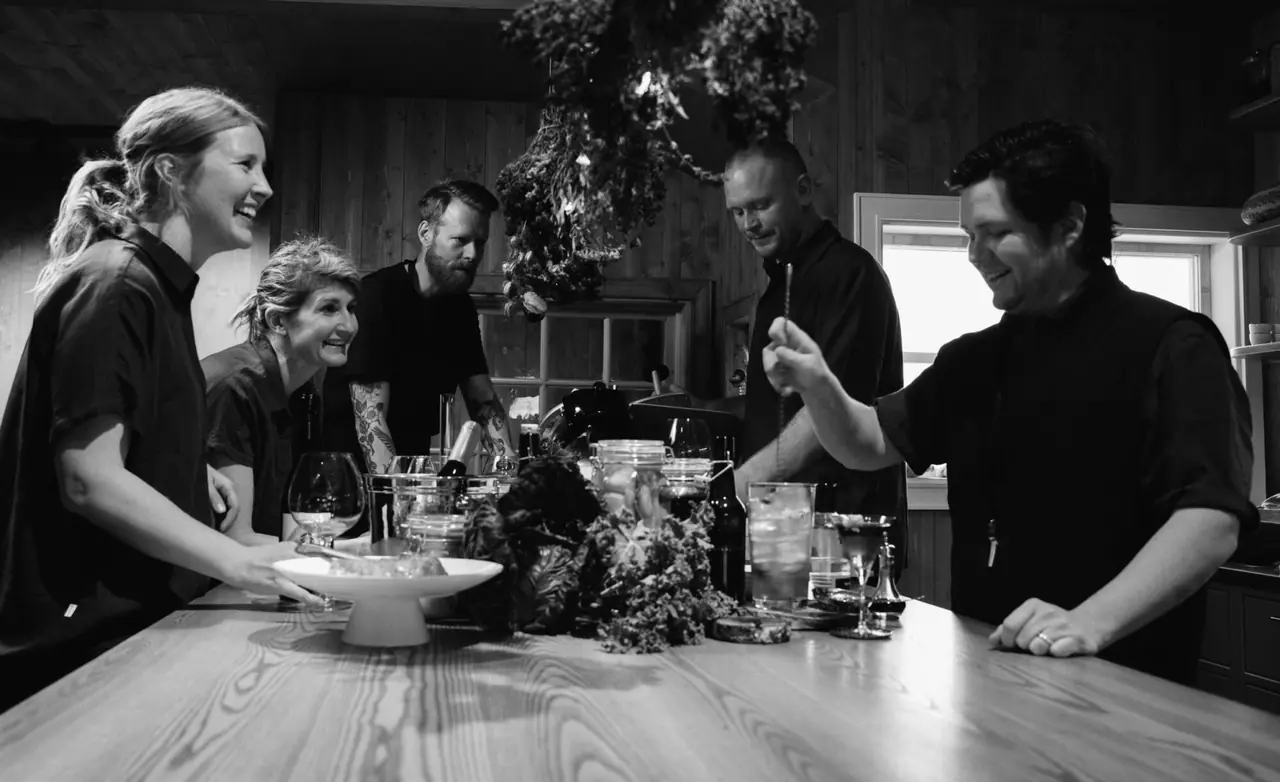
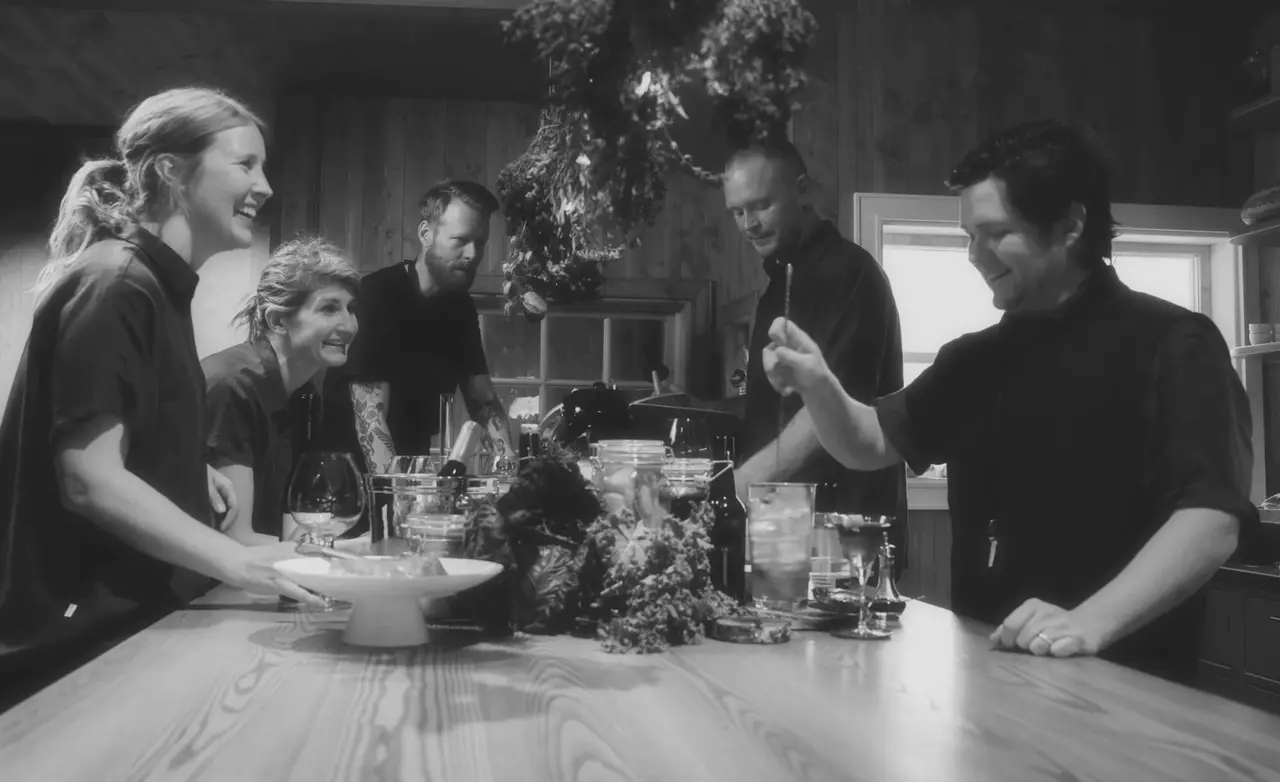
Mobilen: logga, BOKA, språkval och meny skiftar ton i samma takt; språkval och pil kommer samtidigt; mjukare lagbild
Claude-Session: https://claude.ai/code/session_01PvJLN3KGU2VwY8XGgYZP88

diff --git a/assets/hf.css b/assets/hf.css
@@ -34,9 +34,9 @@ body {
   -webkit-font-smoothing: antialiased; -moz-osx-font-smoothing: grayscale;
 }
 img { max-width: 100%; display: block; }
-a { color: inherit; text-decoration: none; transition: color .2s linear; }
+a { color: inherit; text-decoration: none; }
 /* Inget rött vid hovring: länkar tonas lätt i stället */
-a { transition: opacity .3s ease; }
+a { transition: color .2s linear, opacity .3s ease; }
 @media (hover: hover) { a:hover { opacity: .6; } .logga:hover, .huvud a:hover, .meny a:hover, a.knapp:hover { opacity: 1; } }
 :focus-visible { outline: 1px solid currentColor; outline-offset: 4px; }
 /* Ingen ruta och ingen grå markering vid tryck eller klick, varken på mobil eller dator; rutan visas bara för den som använder tangentbord */
@@ -47,7 +47,7 @@ a, button, summary, label { -webkit-tap-highlight-color: transparent; }
 .sr { position: absolute; width: 1px; height: 1px; overflow: hidden; clip: rect(0 0 0 0); white-space: nowrap; }
 
 /* ---------- Huvud: logga, BOKA och meny ---------- */
-.logga { position: absolute; top: 45px; left: 55px; z-index: 20; width: 126px; color: #41413f; transition: color 1s ease, filter 1s ease; }
+.logga { position: absolute; top: 45px; left: 55px; z-index: 20; width: 126px; color: var(--text); transition: color 1s ease, filter 1s ease; }
 /* Loggan ritas i textfärg (via en mask), så att den får exakt samma ton som BOKA och menyn */
 .logga::before { content: ""; position: absolute; inset: 0; background: currentColor;
   -webkit-mask: url(/assets/img/hallfjallet-logo.png) 0 0 / 100% 100% no-repeat; mask: url(/assets/img/hallfjallet-logo.png) 0 0 / 100% 100% no-repeat; }
@@ -59,9 +59,9 @@ a, button, summary, label { -webkit-tap-highlight-color: transparent; }
 }
 .huvud .boka { font-family: var(--rubrik); font-size: 16px; letter-spacing: .015em; text-transform: uppercase; color: inherit; }
 /* BOKA och språkvalet byter till motsatt ton när man pekar eller trycker: mörkt blir ljusgrått, ljusgrått blir mörkt */
-@media (hover: hover) { .huvud .boka:hover, .huvud .sprakval:hover { color: var(--gra); } .ljus-huvud .huvud .boka:hover, .ljus-huvud .huvud .sprakval:hover { color: var(--text); } }
+@media (hover: hover) { .huvud .boka:hover, .huvud .sprakval:hover { color: var(--gra); transition-duration: .3s; } .ljus-huvud .huvud .boka:hover, .ljus-huvud .huvud .sprakval:hover { color: var(--text); } }
 .huvud .boka:active, .huvud .sprakval:active { color: var(--gra); } .ljus-huvud .huvud .boka:active, .ljus-huvud .huvud .sprakval:active { color: var(--text); }
-.huvud .boka, .huvud .sprakval { transition: color .35s ease; }
+.huvud .boka, .huvud .sprakval { transition: color 1s ease; }  /* samma takt som loggan och menyknappen när tonen skiftar */
 /* Språkval bredvid BOKA: bara det andra språket, lite mindre och lättare */
 .huvud .sprakval { font-family: var(--rubrik); font-size: 16px; letter-spacing: .015em; color: inherit; }
 
@@ -112,12 +112,12 @@ body.meny-oppen { overflow: hidden; }
 .hero-text.borta .hero-pil { pointer-events: none; }
 .hero-rubrik { opacity: 0; filter: blur(14px); letter-spacing: .32em; transform: translateY(-14px) scale(1.04);
   animation: hero-in 2.3s cubic-bezier(.16, .7, .2, 1) .2s forwards; }
-.hero-pil { opacity: 0; animation: hero-pil-in 1.6s ease 2.2s forwards; }
+.hero-pil { opacity: 0; animation: hero-pil-in 1.4s ease 1.6s forwards; }
 /* Rubriken sjunker in: ur oskärpa, ner på plats medan bokstäverna drar ihop sig */
 @keyframes hero-in { 40% { opacity: .55; } to { opacity: 1; filter: blur(0); letter-spacing: .16em; transform: none; } }
 @keyframes hero-pil-in { to { opacity: 1; } }
 /* Svenska · English under rubriken på startsidan; det språk man är på är understruket */
-.sprak-under { margin: 22px 0 0; font-family: var(--rubrik); font-size: 13px; letter-spacing: .16em; text-transform: uppercase; pointer-events: auto; opacity: 0; animation: hero-pil-in 1.6s ease 1.7s forwards; }
+.sprak-under { margin: 22px 0 0; font-family: var(--rubrik); font-size: 13px; letter-spacing: .16em; text-transform: uppercase; pointer-events: auto; opacity: 0; animation: hero-pil-in 1.4s ease 1.6s forwards; }  /* språkvalet och pilen kommer samtidigt, när rubriken landar */
 .sprak-under a { color: inherit; transition: opacity .3s ease; }
 @media (hover: hover) { .sprak-under a:hover { opacity: .65; } }
 .sprak-under b { font-weight: normal; border-bottom: 1px solid currentColor; padding-bottom: 2px; }

diff --git a/sv/index.html b/sv/index.html
@@ -1,5 +1,5 @@
 <!DOCTYPE html>
-<html lang="sv">
+<html lang="sv" class="ljus-huvud ljus-logga">
 <head>
 <meta charset="UTF-8">
 <meta name="viewport" content="width=device-width, initial-scale=1">
@@ -26,7 +26,7 @@
 <link rel="preload" href="/assets/fonts/OregonLDO.woff" as="font" type="font/woff" crossorigin>
 <link rel="preload" href="/assets/fonts/SuisseNeue-Regular-WebS.woff" as="font" type="font/woff" crossorigin>
 <link rel="preload" as="image" href="/assets/img/hero-frusen-sjo-1280.webp" imagesrcset="/assets/img/hero-frusen-sjo-640.webp 640w, /assets/img/hero-frusen-sjo-1280.webp 1280w, /assets/img/hero-frusen-sjo-1920.webp 1920w" imagesizes="100vw">
-<link rel="stylesheet" href="/assets/hf.css?v=10">
+<link rel="stylesheet" href="/assets/hf.css?v=11">
 <script type="application/ld+json">{"@context": "https://schema.org", "@graph": [{"@type": "Hotel", "name": "Hållfjället", "url": "https://www.hallfjallet.se/", "description": "Small mountain hotel and restaurant in roadless country above Ottsjö in the southern Åre mountains, Sweden.", "email": "info@hallfjallet.se", "telephone": "+46647690466", "image": "https://www.hallfjallet.se/assets/img/og.jpg", "sameAs": ["https://instagram.com/hallfjallsgarden"], "address": {"@type": "PostalAddress", "addressLocality": "Ottsjö", "addressRegion": "Jämtland", "addressCountry": "SE"}, "geo": {"@type": "GeoCoordinates", "latitude": 63.25414, "longitude": 12.96636}}, {"@type": "Restaurant", "name": "Hållfjället", "url": "https://www.hallfjallet.se/", "servesCuisine": "Seasonal Nordic", "telephone": "+46647690466", "geo": {"@type": "GeoCoordinates", "latitude": 63.25414, "longitude": 12.96636}, "address": {"@type": "PostalAddress", "addressLocality": "Ottsjö", "addressCountry": "SE"}}]}</script>
 </head>
 <body>
@@ -187,6 +187,6 @@ Ottsjö ligger 20 minuter med bil från Undersåkers tågstation och 30 minuter 
   <p class="copy">Copyright © 2026<span class="prick" aria-hidden="true">·</span>Hållfjällsgården AB<span class="prick" aria-hidden="true">·</span>All Rights Reserved.</p>
 </footer>
 <button class="till-toppen" type="button"><span class="sr">Till toppen</span><svg viewBox="0 0 14 14" aria-hidden="true"><path d="M2 9.5l5-5 5 5" fill="none" stroke="currentColor" stroke-width="1.4"/></svg></button>
-<script src="/assets/hf.js?v=10" defer></script>
+<script src="/assets/hf.js?v=11" defer></script>
 </body>
 </html>

diff --git a/en/index.html b/en/index.html
@@ -1,5 +1,5 @@
 <!DOCTYPE html>
-<html lang="en">
+<html lang="en" class="ljus-huvud ljus-logga">
 <head>
 <meta charset="UTF-8">
 <meta name="viewport" content="width=device-width, initial-scale=1">
@@ -26,7 +26,7 @@
 <link rel="preload" href="/assets/fonts/OregonLDO.woff" as="font" type="font/woff" crossorigin>
 <link rel="preload" href="/assets/fonts/SuisseNeue-Regular-WebS.woff" as="font" type="font/woff" crossorigin>
 <link rel="preload" as="image" href="/assets/img/hero-frusen-sjo-1280.webp" imagesrcset="/assets/img/hero-frusen-sjo-640.webp 640w, /assets/img/hero-frusen-sjo-1280.webp 1280w, /assets/img/hero-frusen-sjo-1920.webp 1920w" imagesizes="100vw">
-<link rel="stylesheet" href="/assets/hf.css?v=10">
+<link rel="stylesheet" href="/assets/hf.css?v=11">
 <script type="application/ld+json">{"@context": "https://schema.org", "@graph": [{"@type": "Hotel", "name": "Hållfjället", "url": "https://www.hallfjallet.se/", "description": "Small mountain hotel and restaurant in roadless country above Ottsjö in the southern Åre mountains, Sweden.", "email": "info@hallfjallet.se", "telephone": "+46647690466", "image": "https://www.hallfjallet.se/assets/img/og.jpg", "sameAs": ["https://instagram.com/hallfjallsgarden"], "address": {"@type": "PostalAddress", "addressLocality": "Ottsjö", "addressRegion": "Jämtland", "addressCountry": "SE"}, "geo": {"@type": "GeoCoordinates", "latitude": 63.25414, "longitude": 12.96636}}, {"@type": "Restaurant", "name": "Hållfjället", "url": "https://www.hallfjallet.se/", "servesCuisine": "Seasonal Nordic", "telephone": "+46647690466", "geo": {"@type": "GeoCoordinates", "latitude": 63.25414, "longitude": 12.96636}, "address": {"@type": "PostalAddress", "addressLocality": "Ottsjö", "addressCountry": "SE"}}]}</script>
 </head>
 <body>
@@ -188,6 +188,6 @@ Contact us and we’ll gladly tell you more.</p>
   <p class="copy">Copyright © 2026<span class="prick" aria-hidden="true">·</span>Hållfjällsgården AB<span class="prick" aria-hidden="true">·</span>All Rights Reserved.</p>
 </footer>
 <button class="till-toppen" type="button"><span class="sr">Back to top</span><svg viewBox="0 0 14 14" aria-hidden="true"><path d="M2 9.5l5-5 5 5" fill="none" stroke="currentColor" stroke-width="1.4"/></svg></button>
-<script src="/assets/hf.js?v=10" defer></script>
+<script src="/assets/hf.js?v=11" defer></script>
 </body>
 </html>

diff --git a/sv/jobba-hos-oss/index.html b/sv/jobba-hos-oss/index.html
@@ -1,5 +1,5 @@
 <!DOCTYPE html>
-<html lang="sv">
+<html lang="sv" class="ljus-huvud ljus-logga">
 <head>
 <meta charset="UTF-8">
 <meta name="viewport" content="width=device-width, initial-scale=1">
@@ -25,7 +25,7 @@
 <link rel="apple-touch-icon" sizes="180x180" href="/apple-touch-icon.png?v=2">
 <link rel="preload" href="/assets/fonts/OregonLDO.woff" as="font" type="font/woff" crossorigin>
 <link rel="preload" href="/assets/fonts/SuisseNeue-Regular-WebS.woff" as="font" type="font/woff" crossorigin>
-<link rel="stylesheet" href="/assets/hf.css?v=10">
+<link rel="stylesheet" href="/assets/hf.css?v=11">
 </head>
 <body class="sida-jobb">
 <a class="skip" href="#innehall">Hoppa till innehållet</a>
@@ -125,6 +125,6 @@
   <p class="copy">Copyright © 2026<span class="prick" aria-hidden="true">·</span>Hållfjällsgården AB<span class="prick" aria-hidden="true">·</span>All Rights Reserved.</p>
 </footer>
 <button class="till-toppen" type="button"><span class="sr">Till toppen</span><svg viewBox="0 0 14 14" aria-hidden="true"><path d="M2 9.5l5-5 5 5" fill="none" stroke="currentColor" stroke-width="1.4"/></svg></button>
-<script src="/assets/hf.js?v=10" defer></script>
+<script src="/assets/hf.js?v=11" defer></script>
 </body>
 </html>

diff --git a/en/work-with-us/index.html b/en/work-with-us/index.html
@@ -1,5 +1,5 @@
 <!DOCTYPE html>
-<html lang="en">
+<html lang="en" class="ljus-huvud ljus-logga">
 <head>
 <meta charset="UTF-8">
 <meta name="viewport" content="width=device-width, initial-scale=1">
@@ -25,7 +25,7 @@
 <link rel="apple-touch-icon" sizes="180x180" href="/apple-touch-icon.png?v=2">
 <link rel="preload" href="/assets/fonts/OregonLDO.woff" as="font" type="font/woff" crossorigin>
 <link rel="preload" href="/assets/fonts/SuisseNeue-Regular-WebS.woff" as="font" type="font/woff" crossorigin>
-<link rel="stylesheet" href="/assets/hf.css?v=10">
+<link rel="stylesheet" href="/assets/hf.css?v=11">
 </head>
 <body class="sida-jobb">
 <a class="skip" href="#innehall">Skip to content</a>
@@ -127,6 +127,6 @@
   <p class="copy">Copyright © 2026<span class="prick" aria-hidden="true">·</span>Hållfjällsgården AB<span class="prick" aria-hidden="true">·</span>All Rights Reserved.</p>
 </footer>
 <button class="till-toppen" type="button"><span class="sr">Back to top</span><svg viewBox="0 0 14 14" aria-hidden="true"><path d="M2 9.5l5-5 5 5" fill="none" stroke="currentColor" stroke-width="1.4"/></svg></button>
-<script src="/assets/hf.js?v=10" defer></script>
+<script src="/assets/hf.js?v=11" defer></script>
 </body>
 </html>

diff --git a/sv/nu-pa-hallfjallet/index.html b/sv/nu-pa-hallfjallet/index.html
@@ -25,7 +25,7 @@
 <link rel="apple-touch-icon" sizes="180x180" href="/apple-touch-icon.png?v=2">
 <link rel="preload" href="/assets/fonts/OregonLDO.woff" as="font" type="font/woff" crossorigin>
 <link rel="preload" href="/assets/fonts/SuisseNeue-Regular-WebS.woff" as="font" type="font/woff" crossorigin>
-<link rel="stylesheet" href="/assets/hf.css?v=10">
+<link rel="stylesheet" href="/assets/hf.css?v=11">
 </head>
 <body class="sida-dagar">
 <a class="skip" href="#innehall">Hoppa till innehållet</a>
@@ -169,6 +169,6 @@ En eld görs upp, kaffepannan åker fram och så småningom vankas något varmt 
   <p class="copy">Copyright © 2026<span class="prick" aria-hidden="true">·</span>Hållfjällsgården AB<span class="prick" aria-hidden="true">·</span>All Rights Reserved.</p>
 </footer>
 <button class="till-toppen" type="button"><span class="sr">Till toppen</span><svg viewBox="0 0 14 14" aria-hidden="true"><path d="M2 9.5l5-5 5 5" fill="none" stroke="currentColor" stroke-width="1.4"/></svg></button>
-<script src="/assets/hf.js?v=10" defer></script>
+<script src="/assets/hf.js?v=11" defer></script>
 </body>
 </html>

diff --git a/en/whats-on/index.html b/en/whats-on/index.html
@@ -25,7 +25,7 @@
 <link rel="apple-touch-icon" sizes="180x180" href="/apple-touch-icon.png?v=2">
 <link rel="preload" href="/assets/fonts/OregonLDO.woff" as="font" type="font/woff" crossorigin>
 <link rel="preload" href="/assets/fonts/SuisseNeue-Regular-WebS.woff" as="font" type="font/woff" crossorigin>
-<link rel="stylesheet" href="/assets/hf.css?v=10">
+<link rel="stylesheet" href="/assets/hf.css?v=11">
 </head>
 <body class="sida-dagar">
 <a class="skip" href="#innehall">Skip to content</a>
@@ -166,6 +166,6 @@
   <p class="copy">Copyright © 2026<span class="prick" aria-hidden="true">·</span>Hållfjällsgården AB<span class="prick" aria-hidden="true">·</span>All Rights Reserved.</p>
 </footer>
 <button class="till-toppen" type="button"><span class="sr">Back to top</span><svg viewBox="0 0 14 14" aria-hidden="true"><path d="M2 9.5l5-5 5 5" fill="none" stroke="currentColor" stroke-width="1.4"/></svg></button>
-<script src="/assets/hf.js?v=10" defer></script>
+<script src="/assets/hf.js?v=11" defer></script>
 </body>
 </html>

diff --git a/assets/hf.js b/assets/hf.js
@@ -63,7 +63,9 @@
       }
     });
     rot.classList.toggle('ljus-huvud', ljus);
-    rot.classList.toggle('ljus-logga', !!aktuellLjus()); // loggan följer bildspelet, i samma färg som menyn
+    // Loggan följer bildspelet; på sidor utan bildspel följer den bilden högst upp. Samma ton som menyn.
+    var forsta = ytor[0], loggaLjus = bilder.length ? aktuellLjus() : !!forsta && forsta.getAttribute('data-ljus-' + (smal.matches ? 'm' : 'd')) === '1';
+    rot.classList.toggle('ljus-logga', loggaLjus);
     if (toppen) toppen.classList.toggle('synlig', window.scrollY > window.innerHeight);
   }
   var vantar = false;

diff --git a/404.html b/404.html
@@ -10,7 +10,7 @@
 <link rel="icon" type="image/png" sizes="16x16" href="/ikon-hf-16.png?v=2">
 <link rel="icon" type="image/png" sizes="192x192" href="/ikon-hf-192.png?v=2">
 <link rel="icon" type="image/x-icon" href="/favicon.ico?v=2">
-<link rel="stylesheet" href="/assets/hf.css?v=10">
+<link rel="stylesheet" href="/assets/hf.css?v=11">
 </head>
 <body class="sida-enkel">
 <main class="enkel">

diff --git a/index.html b/index.html
@@ -29,7 +29,7 @@
     } catch (e) {}
   })();
 </script>
-<link rel="stylesheet" href="/assets/hf.css?v=10">
+<link rel="stylesheet" href="/assets/hf.css?v=11">
 </head>
 <body class="sida-enkel">
 <main class="enkel">

diff --git a/CLAUDE.md b/CLAUDE.md
@@ -38,11 +38,11 @@ The home pages copy the structure of the WordPress site: one long page with a sl
 
 - **Section ids** — Swedish: `hitta-hem-i-det-vilda`, `mat-dryck`, `bo-hos-oss`, `var-historia`, `hitta-hit`, `boka`, `newsletter`. English: `home-in-the-wild`, `food-beverage`, `stay-with-us`, `our-story`, `getting-here`, `reservation`, `newsletter`.
 - **Slideshow** — the `<img>` tags inside `.bildspel`, in order. The same 13 images, in the same order, in both languages and on phone and computer. Only the first has `src`; the rest have `data-src`/`data-srcset` and load just before they are shown. `--pos-d` / `--pos-m` set the crop on computer / phone. `data-ljus-d` / `data-ljus-m` = `1` when the logo and BOKA should be light on that image (dark image behind them), `0` when they should be dark. Timing is in `assets/hf.js` (first change after 2 s, then 3.5 s; 1.6 s fade in `hf.css`). Order agreed with her: the frozen lake first, then the martini, then the winter mountain with the lodge, so the winter pictures are spread out.
-- **Title on the slideshow** — `.hero-text` shows "Hitta hem i det vilda" / "Your home in the wild" (same wording as the section heading and the menu, her choice) and a small arrow to the first section when the page opens, then stays for the first three slides (fading as the fourth arrives) or until the visitor scrolls (`assets/hf.js`). Agreed with her: no extra line under the title. Light grey (`--gra` in `hf.css`) is the one tone for logo, BOKA, language switch, menu and title on dark images; the logo is drawn through a CSS mask so it matches exactly. BOKA hover/tap switches to the opposite tone (never red). No red hover anywhere: links fade slightly, framed buttons (`.knapp`) fill dark with light text. The title keeps light grey on every slide with a dark soft shade behind it (her choice over switching to dark). No focus box on tap/click anywhere (`:focus:not(:focus-visible)`); the menu only moves focus when opened by keyboard. `hf.css`/`hf.js` are linked with `?v=10`; bump it when they change so phones don't keep an old copy.
+- **Title on the slideshow** — `.hero-text` shows "Hitta hem i det vilda" / "Your home in the wild" (same wording as the section heading and the menu, her choice) and a small arrow to the first section when the page opens, then stays for the first three slides (fading as the fourth arrives) or until the visitor scrolls (`assets/hf.js`). Agreed with her: no extra line under the title. Light grey (`--gra` in `hf.css`) is the one tone for logo, BOKA, language switch, menu and title on dark images; the logo is drawn through a CSS mask so it matches exactly. Logo, BOKA, language switch and menu icon all change tone with the same 1 s transition, and pages whose top image is dark start with `class="ljus-huvud ljus-logga"` on `<html>` so nothing shifts while loading. BOKA hover/tap switches to the opposite tone (never red). No red hover anywhere: links fade slightly, framed buttons (`.knapp`) fill dark with light text. The title keeps light grey on every slide with a dark soft shade behind it (her choice over switching to dark). No focus box on tap/click anywhere (`:focus:not(:focus-visible)`); the menu only moves focus when opened by keyboard. `hf.css`/`hf.js` are linked with `?v=11`; bump it when they change so phones don't keep an old copy.
 - **Menu background** — a double exposure she loved: `hero-martini` (`data-bild` on `.meny`) with `hero-fjallet-vinter` (`data-skog`) at 27 % opacity on top (`.meny::before` in `hf.css`), loaded by `hf.js` when the menu first opens. Same attributes on all six new-look pages. She may want this combination again for Berättelser från fjället.
 - **Newsletter section** — background is a second double exposure she chose (D1): `hero-sallskapsrum` with `lake-mist` at 38 % on top and a dark fade from the top to soften the window; the text sits centred at the top, over the window, with no card and no frame round the "Följ våra berättelser" link (her choice): light grey text on a soft dark shade, so the table, chess set and book show below it (`.nyhetsbrev` in `hf.css`).
 - **Language switch** — chosen by her: `.sprakval` ("English" / "Svenska", same size as BOKA) next to BOKA on every new-look page, linking to the counterpart page, plus `.sprak-under` ("Svenska · English", current language underlined) under the title on the two home pages. No language item in the menu any more.
-- **Softened photos** — so the photos sit together with the dreamy ones (martini, winter lodge), six home-page photos were given a very light softening in place (gentle glow, slightly muted colour and contrast, a touch lifted black): `hero-vinkallare`, `hero-majrova`, `hero-ripa`, `hero-koksbord`, `karta`, `hero-dukning`. Her choice: "pyttelite", no grain. The untreated versions are in git history (before the commit "Mjukare bilder"). Give new photos the same light touch if they feel harsh next to the others.
+- **Softened photos** — so the photos sit together with the dreamy ones (martini, winter lodge), six home-page photos were given a very light softening in place (gentle glow, slightly muted colour and contrast, a touch lifted black): `hero-vinkallare`, `hero-majrova`, `hero-ripa`, `hero-koksbord`, `karta`, `hero-dukning`. Her choice: "pyttelite", no grain. The black-and-white team photo `laget` got a slightly stronger version (more glow, lifted blacks, lower contrast) at her request. The untreated versions are in git history (before the commit "Mjukare bilder"). Give new photos the same light touch if they feel harsh next to the others.
 - **Two photos side by side** — `<div class="bild dubbel">` holds two tall photos shown side by side on computer like a magazine spread; on phones only the first shows (the second has `bara-dator`). Used for the bunk bed and the champagne in the window before Vår historia (her choice, so the computer doesn't show only sheets).
 - **Photos between sections** — `<div class="bild">` with the same `--pos-*` and `data-ljus-*` attributes.
 - **LÄS MER** — text blocks with the classes `las-mer bara-mobil` get a LÄS MER / VISA MINDRE button on phones only (800px and narrower). The text breaks at the paragraph closest to half. Add `data-las-mer-efter="2"` to force the break after paragraph 2.
